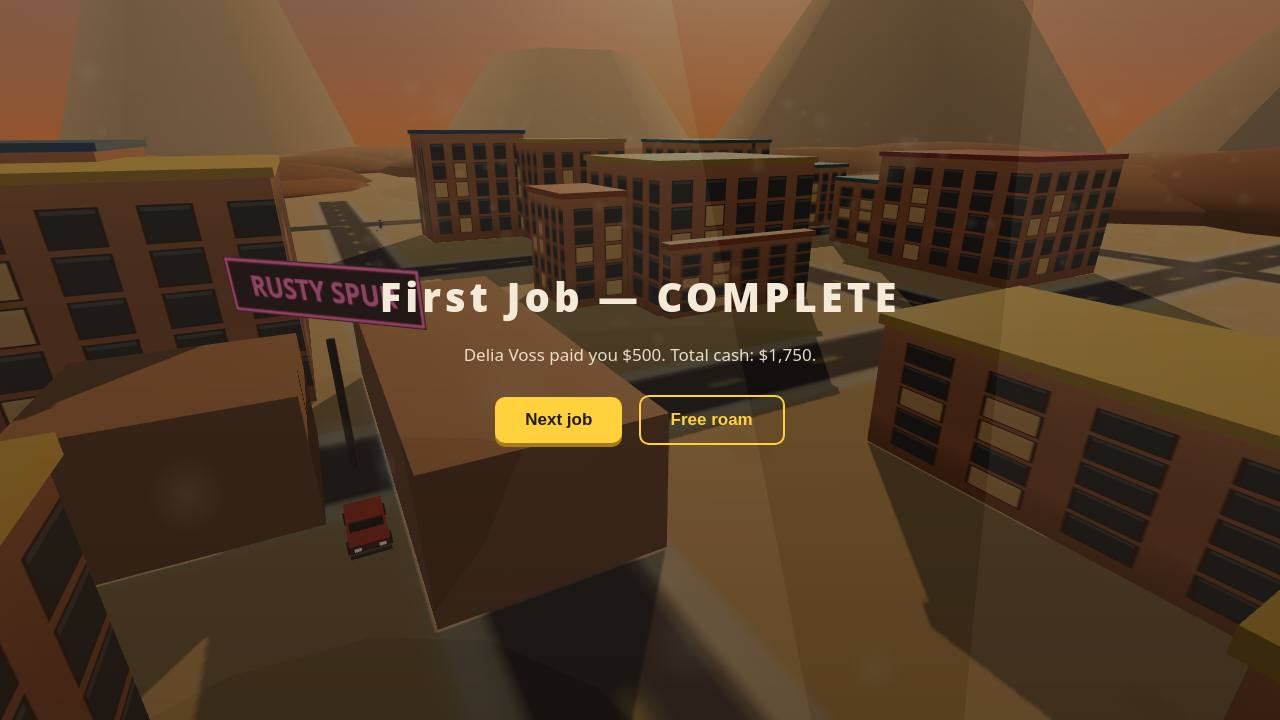
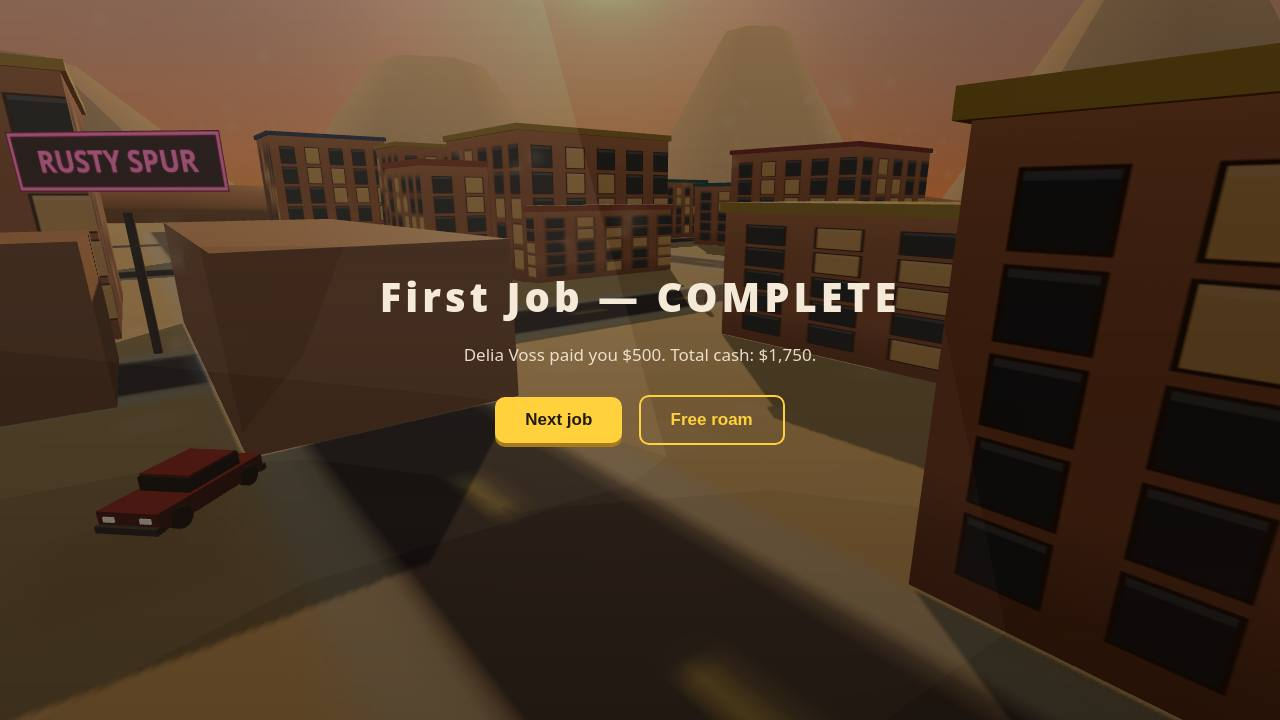
gta6-01 revision round 2: street-level title/end framing
- Sign: moved 6m west (-66,-52) so RUSTY SPUR reads fully, clear of the
  centred title/heading in shots 1 and 4.
- Hero car: faces north-east (rotation.y pi/4) for a three-quarter view,
  and is staged at (-40,-52) in the open east corridor for the start/end
  shots so it reads ~125px lower-left, clear of buttons/controls.
- Dolly: 10m just above the 8m roofs (was 21m crane) with the view
  pitched down toward the town (lookAt -50,-2,-80) — the motel roof is
  a thin band, the corridor floor and road fill the foreground, town
  and mesas the upper frame. Two dead ends documented in render.js:
  a 15m corridor crane only made the roof/facade bigger, and a
  street-level road dolly hides the car/sign behind the motel's SE
  corner below ~35m.
- Shots 2 and 3 untouched; chase formation verified intact.
- Play-test clean: zero page/console errors, zero failed requests.

diff --git a/game/src/render.js b/game/src/render.js
@@ -15,20 +15,26 @@ export function createCameraRig(camera) {
     fov: 62,
     update(dt, focus, speed01, time) {
       if (rig.mode === 'title') {
-        // Cinematic crane dolly: a slow push west along the open z=-52
-        // corridor between the motel main building (north) and its wing
-        // (south) toward the RUSTY SPUR sign and the hero car. The car sits
-        // in a walled courtyard — every southern view is blocked by the
-        // wing below 30m, and the sign (now angled 45° to face south-east)
-        // is the one landmark that reads from the east. The camera rides
-        // HIGH (21m, above every nearby roof) so the flanking buildings
-        // read as rooftops, not walls, and the view axis is swung north so
-        // the sign + car land in the clear left third (clear of the
-        // centred title/button block), with the town + mesas in the centre.
-        // Sightline verified against the deterministic city layout.
+        // Cinematic street-level dolly (round 3, iteration 3): the camera
+        // rides the east corridor at 10m — just above the 8m roofs, so
+        // the motel roof reads as a thin band instead of the slab the
+        // 15m/21m cranes produced (a high camera looks DOWN at the roof
+        // and its south facade, and the closer it is the bigger they
+        // loom; iteration 1 proved it, iteration 2's road dolly proved
+        // the car/sign are hidden behind the motel's SE corner from the
+        // road at any height below ~35m). The view pitches gently down
+        // toward the town (lookAt y -2, z -80): the RUSTY SPUR sign
+        // lands upper-left, clear of the centred title/heading; the
+        // hero car — staged at (-40,-52) in applyShotMode 'start'/'end',
+        // 24m out in the open corridor — lands lower-left, ~125px and
+        // clear of the buttons/controls; the town and mesas fill the
+        // upper frame and the corridor floor the bottom. The corridor
+        // east of the motel is verified clear (deterministic city: no
+        // generic building overlaps z -58..-46, x -48..-8), so the car
+        // spot and the whole dolly path are open air.
         const t = (time * 0.03) % 1;
-        camera.position.set(-20 - t * 12, 21 - t * 2, -52);
-        camera.lookAt(-57, 5, -72);
+        camera.position.set(-16 - t * 8, 10, -52);
+        camera.lookAt(-50, -2, -80);
       } else if (rig.mode === 'action') {
         // Close, low chase camera for the frozen action shot: the lead
         // cruiser looms large ahead-right, the player car fills the bottom

diff --git a/game/src/main.js b/game/src/main.js
@@ -43,11 +43,17 @@ const ui = createUI({
 });
 
 // ---- The player's own car + the gold coupe for mission 3.
+// The hero car sits three-quarter to the east corridor (facing north-east),
+// so the title dolly — which rides that corridor — sees its long side,
+// not just its narrow nose: it reads as a car, ~2.5x wider on screen than
+// the old east-facing park. (Round 3: the car was ~40px and read as a red
+// blob near the controls line.) Driving is unaffected: the state heading
+// matches the mesh, and the player steers wherever they like.
 const ownCarMesh = makeCar(0xc94f3d, { name: 'rook-car' });
 ownCarMesh.position.set(-52, 0, -52);
-ownCarMesh.rotation.y = Math.PI / 2;
+ownCarMesh.rotation.y = Math.PI / 4;
 scene.add(ownCarMesh);
-const ownCar = { mesh: ownCarMesh, state: makeCarState(-52, -52, Math.PI / 2), owned: true };
+const ownCar = { mesh: ownCarMesh, state: makeCarState(-52, -52, Math.PI / 4), owned: true };
 
 const goldMesh = makeCar(0xe8b13c, { name: 'gold-coupe' });
 goldMesh.position.set(-104, 0, -112);
@@ -409,6 +415,17 @@ function applyShotMode(shot) {
   if (shot === 'start') {
     ui.setTitle(null);
     setState('title');
+    // Round 3: stage the hero car 24m out in the open east corridor
+    // (-40,-52) instead of its boot spot (-52,-52) tucked in the
+    // motel's NE corner — from the new 10m title dolly the boot spot
+    // reads ~90px at the frame's left edge, while the staged spot
+    // reads ~125px lower-left, clear of the buttons/controls. The
+    // corridor is verified clear of generic buildings there. Shot-only
+    // staging: the live game still spawns the car at (-52,-52).
+    ownCar.state.pos.set(-40, 0, -52);
+    ownCar.state.heading = Math.PI / 4;
+    ownCar.state.speed = 0;
+    syncCarMesh(ownCar.mesh, ownCar.state);
     return;
   }
   // Play, action and end all skip the title.
@@ -471,6 +488,12 @@ function applyShotMode(shot) {
     ui.showComplete(m, m.reward, game.cash + m.reward);
     setState('complete');
     rig.mode = 'title';
+    // Same staged hero car as 'start' (see above) — the end screen
+    // rides the same title dolly, so the car reads in both frames.
+    ownCar.state.pos.set(-40, 0, -52);
+    ownCar.state.heading = Math.PI / 4;
+    ownCar.state.speed = 0;
+    syncCarMesh(ownCar.mesh, ownCar.state);
   }
   ui.updateHUD({
     health: 100, cash: game.cash, wanted: police.getWanted(),

diff --git a/game/src/city.js b/game/src/city.js
@@ -171,11 +171,15 @@ export function createCity(scene) {
   // approaches. (Face-on south, it was edge-on and invisible from the
   // east, which is the one clear sightline to the hero car parked beside
   // the motel; the wing blocks every southern view of the car below 30m.)
+  // Moved 6m west (round 3): from the title dolly the sign's right end
+  // sat behind the "F" of the "First Job — COMPLETE" heading in shot 4
+  // (~90% readable); the shift puts the whole sign clear of the centred
+  // overlay text in both the title and complete framings.
   motelSign.rotation.y = Math.PI / 4;
-  motelSign.position.set(-60, 12, -52);
+  motelSign.position.set(-66, 12, -52);
   group.add(motelSign);
   const signPole = new THREE.Mesh(new THREE.CylinderGeometry(0.25, 0.25, 9, 8), hero({ color: 0x3a3a40, metalness: 0.6, roughness: 0.4 }));
-  signPole.position.set(-60, 4.5, -52);
+  signPole.position.set(-66, 4.5, -52);
   signPole.castShadow = true;
   group.add(signPole);
 
